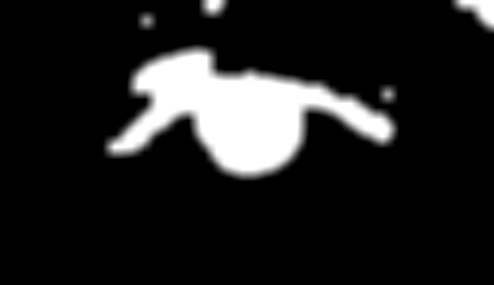
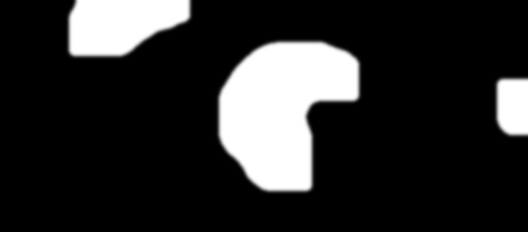
--better contour method

diff --git a/ver_4/contour-method-test-vid.py b/ver_4/contour-method-test-vid.py
@@ -1,11 +1,15 @@
 import cv2
 import numpy as np
 import dlib
+import imutils
 
 cap = cv2.VideoCapture('eye-movement.mp4')
 detector = dlib.get_frontal_face_detector()
 predictor = dlib.shape_predictor("shape_predictor_68_face_landmarks.dat")
 
+avgX, avgY = (0, 0)
+pList = [(0, 0), (0, 0), (0, 0), (0, 0)]
+count = 0
 def midpoint(p1, p2):
     return int((p1.x + p2.x)/2), int((p1.y + p2.y))
 
@@ -61,26 +65,32 @@ while True:
             right_eye = cv2.resize(right_eye, None, fx=8, fy=8)
             left_eye = cv2.resize(left_eye, None, fx=8, fy=8)
             gray_eye = cv2.cvtColor(right_eye, cv2.COLOR_BGR2GRAY)
-            gray_eye = cv2.GaussianBlur(gray_eye, (7, 7), 0)
-            _, thr = cv2.threshold(gray_eye, 60, 255, cv2.THRESH_BINARY)
+            _, thr = cv2.threshold(gray_eye, 65, 255, cv2.THRESH_BINARY_INV)
             
-            thr = cv2.erode(thr, None, iterations=2)
-            thr = cv2.dilate(thr, None, iterations=15)
-            thr = cv2.medianBlur(thr, 5)
-            edged = cv2.Canny(thr, 80, 200)
+            thr = cv2.erode(thr, None, iterations=20)
+            thr = cv2.dilate(thr, None, iterations=20)
+            thr = cv2.medianBlur(thr, 9)
+            thr = cv2.GaussianBlur(thr, (9, 9), 0)
+            edged = cv2.Canny(thr, 100, 200)
             
-            cont, h = cv2.findContours(edged, cv2.RETR_TREE, cv2.CHAIN_APPROX_SIMPLE)
-            largest = cont[1]
-            for c in largest:
-                m = cv2.moments(c)
+            cont, h = cv2.findContours(thr, cv2.RETR_TREE, cv2.CHAIN_APPROX_NONE)
+            if len(cont) != 0:
+                contL = max(cont, key = cv2.contourArea)
+                cv2.drawContours(right_eye, contL, -1, (0, 255, 255), 3)
+                m = cv2.moments(contL)
                 if m['m00'] != 0:
                     cx = int(m['m10']/m['m00'])
                     cy = int(m['m01']/m['m00'])
-                    cv2.circle(right_eye, (cx, cy), 2, (0, 0, 255), -1)
+                    pList[count] = (cx, cy)
+                    count += 1
+                    if count == 3:
+                        avgX, avgY = ((pList[0][0]+pList[1][0]+pList[2][0]+pList[3][0])/4, 
+                                    (pList[0][1]+pList[1][1]+pList[2][1]+pList[3][1])/4)
+                        count = 0
+                    # cv2.circle(right_eye, (int(avgX), int(avgY)), 5, (0, 0, 255), -1)
+                    cv2.circle(right_eye, (cx, cy), 5, (0, 0, 255), -1)
                 else:
                     pass
-            # cv2.drawContours(right_eye, cont, -1, (0, 255, 0), 3)
-            cv2.drawContours(right_eye, largest, -1, (0, 255, 255), 3)
 
             cv2.polylines(frame, [left_eye_region], True, (0, 0, 255), 3)
             cv2.polylines(frame, [right_eye_region], True, (0, 0, 255), 3)
@@ -89,8 +99,10 @@ while True:
     cv2.imshow('right_eye_region', right_eye)
     cv2.imshow('thr', thr)
     cv2.imshow('edged', edged)
-    if cv2.waitKey(40) & 0xff == ord('q'):
+    if cv2.waitKey(30) & 0xff == ord('q'):
+        cv2.imwrite('examine.png', right_eye)
         break
+        
 
 cap.release()
 cv2.destroyAllWindows()

diff --git a/ver_4/contour-method-test-img.py b/ver_4/contour-method-test-img.py
@@ -9,24 +9,22 @@ kernel = np.array([[0, -1, 0],
                    [-1, 5,-1], 
                    [0, -1, 0]])
 
-img = cv2.imread('test2.jpg')
+img = cv2.imread('examine.png')
 # img = cv2.filter2D(img, -1, kernel)
 cv2.namedWindow('img')
 gray_eye = cv2.cvtColor(img, cv2.COLOR_BGR2GRAY)
-_, thr = cv2.threshold(gray_eye, 60, 255, cv2.THRESH_BINARY_INV)
-thr = cv2.dilate(thr, None, iterations=3)
-thr = cv2.erode(thr, None, iterations=1)
+_, thr = cv2.threshold(gray_eye, 80, 255, cv2.THRESH_BINARY_INV)
+thr = cv2.erode(thr, None, iterations=20)
+thr = cv2.dilate(thr, None, iterations=20)
+thr = cv2.medianBlur(thr, 9)
+thr = cv2.GaussianBlur(thr, (9, 9), 0)
 # thr = cv2.dilate(thr, None, iterations=9)
 
-edged = cv2.Canny(thr, 110, 200)
-cont, h = cv2.findContours(edged, cv2.RETR_TREE, cv2.CHAIN_APPROX_NONE)
-cv2.drawContours(img, cont, -1, (0, 255, 0), 3)
+edged = cv2.Canny(thr, 100, 200)
+cont, h = cv2.findContours(thr, cv2.RETR_TREE, cv2.CHAIN_APPROX_NONE)
 largest = max(cont, key=cv2.contourArea)
-hull = []
-for i in range(len(cont)):
-    hull.append(cv2.convexHull(largest, False))
-    cv2.drawContours(img, hull, i, (0, 0, 255), 3)
 
+cv2.drawContours(img, largest, -1, (0, 255, 0), 3)
 cv2.imshow('thr', thr)
 cv2.imshow('edged', edged)
 cv2.imshow('img', img)
